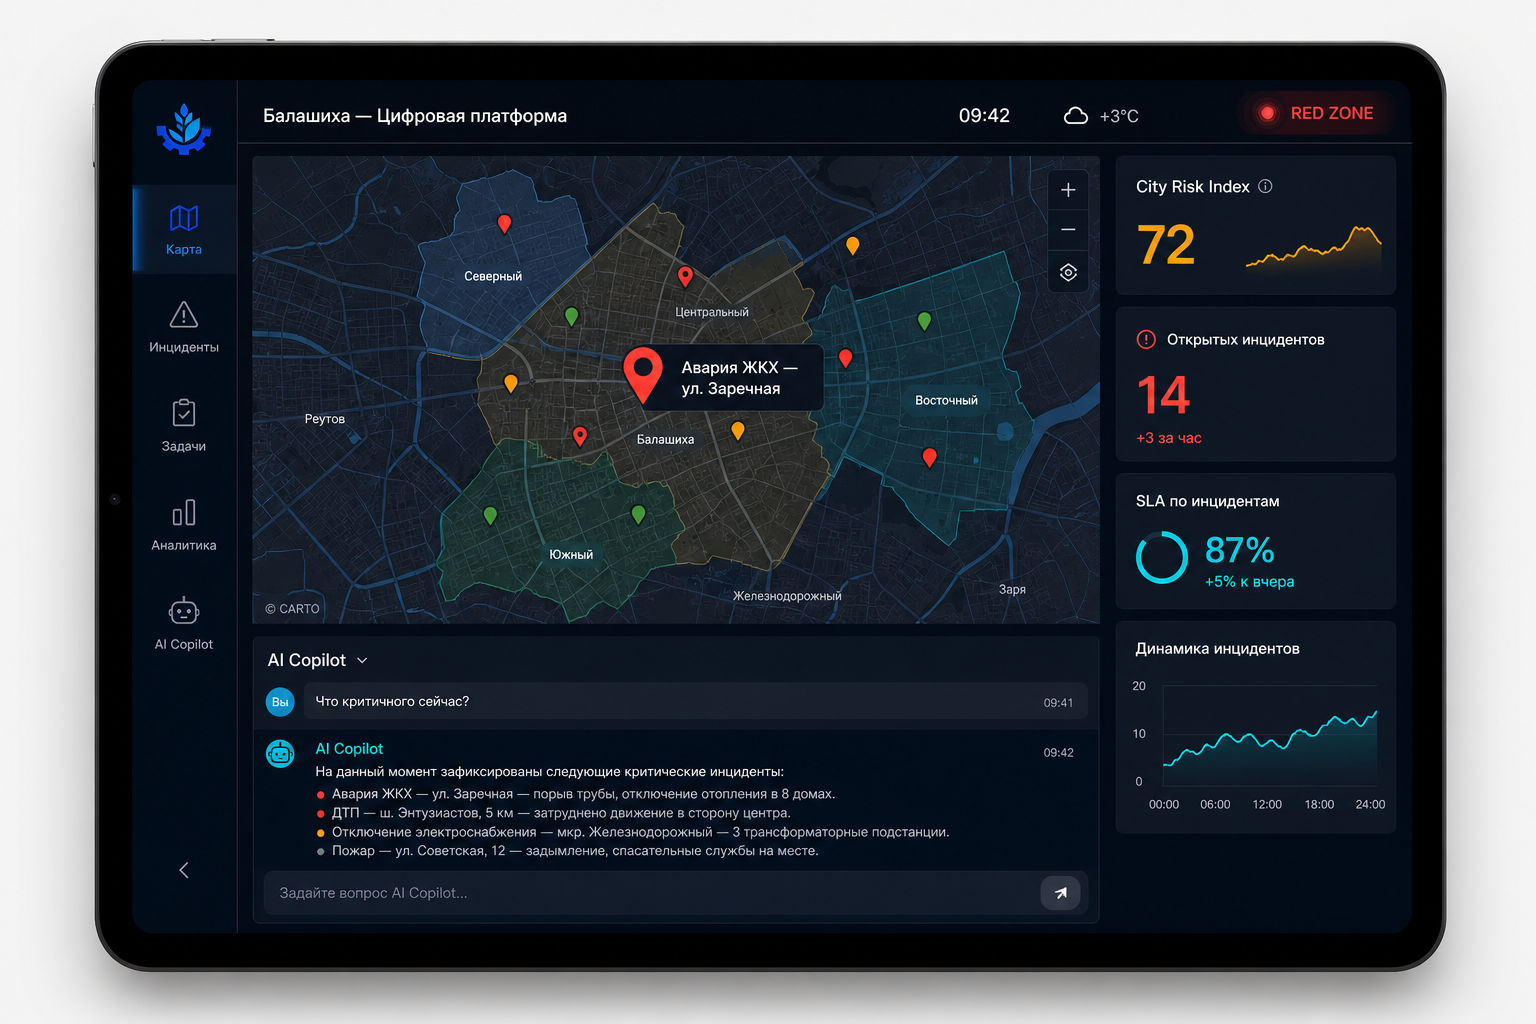
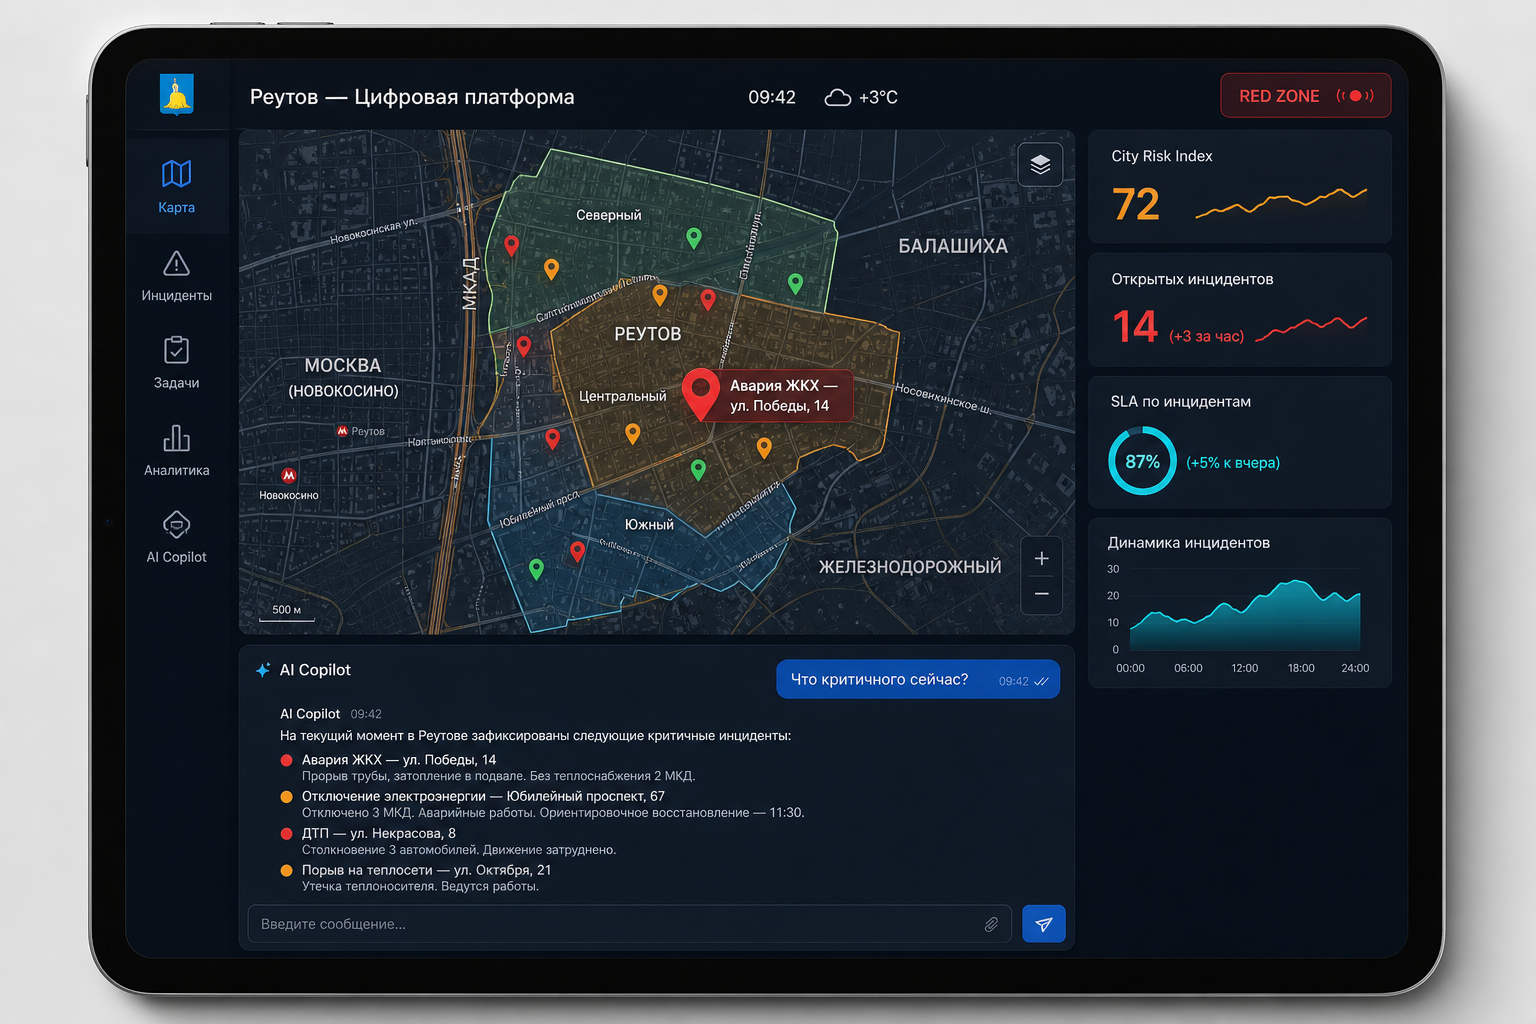
Changes

diff --git a/src/pages/MapPage.tsx b/src/pages/MapPage.tsx
@@ -137,7 +137,7 @@ export default function MapPage() {
       <div className="flex items-center justify-between">
         <div>
           <h1 className="text-[28px] font-bold text-foreground tracking-tight">Карта города</h1>
-          <p className="text-sm text-muted-foreground mt-0.5">Балашиха · Инциденты на карте</p>
+          <p className="text-sm text-muted-foreground mt-0.5">Реутов · Инциденты на карте</p>
         </div>
         <div className="flex items-center gap-3">
           {stats.high > 0 && <span className="red-zone-badge">RED ZONE · {stats.high}</span>}

diff --git a/src/components/AppLayout.tsx b/src/components/AppLayout.tsx
@@ -123,7 +123,7 @@ export default function AppLayout({ children }: { children: ReactNode }) {
             <Shield className="w-5 h-5 text-white" />
           </div>
           <div className="hidden lg:block">
-            <h1 className="text-[13px] font-bold text-white leading-tight tracking-tight">Балашиха</h1>
+            <h1 className="text-[13px] font-bold text-white leading-tight tracking-tight">Реутов</h1>
             <p className="text-[10px] text-sidebar-foreground/60 tracking-[0.12em] uppercase">Цифровая платформа</p>
           </div>
         </div>
